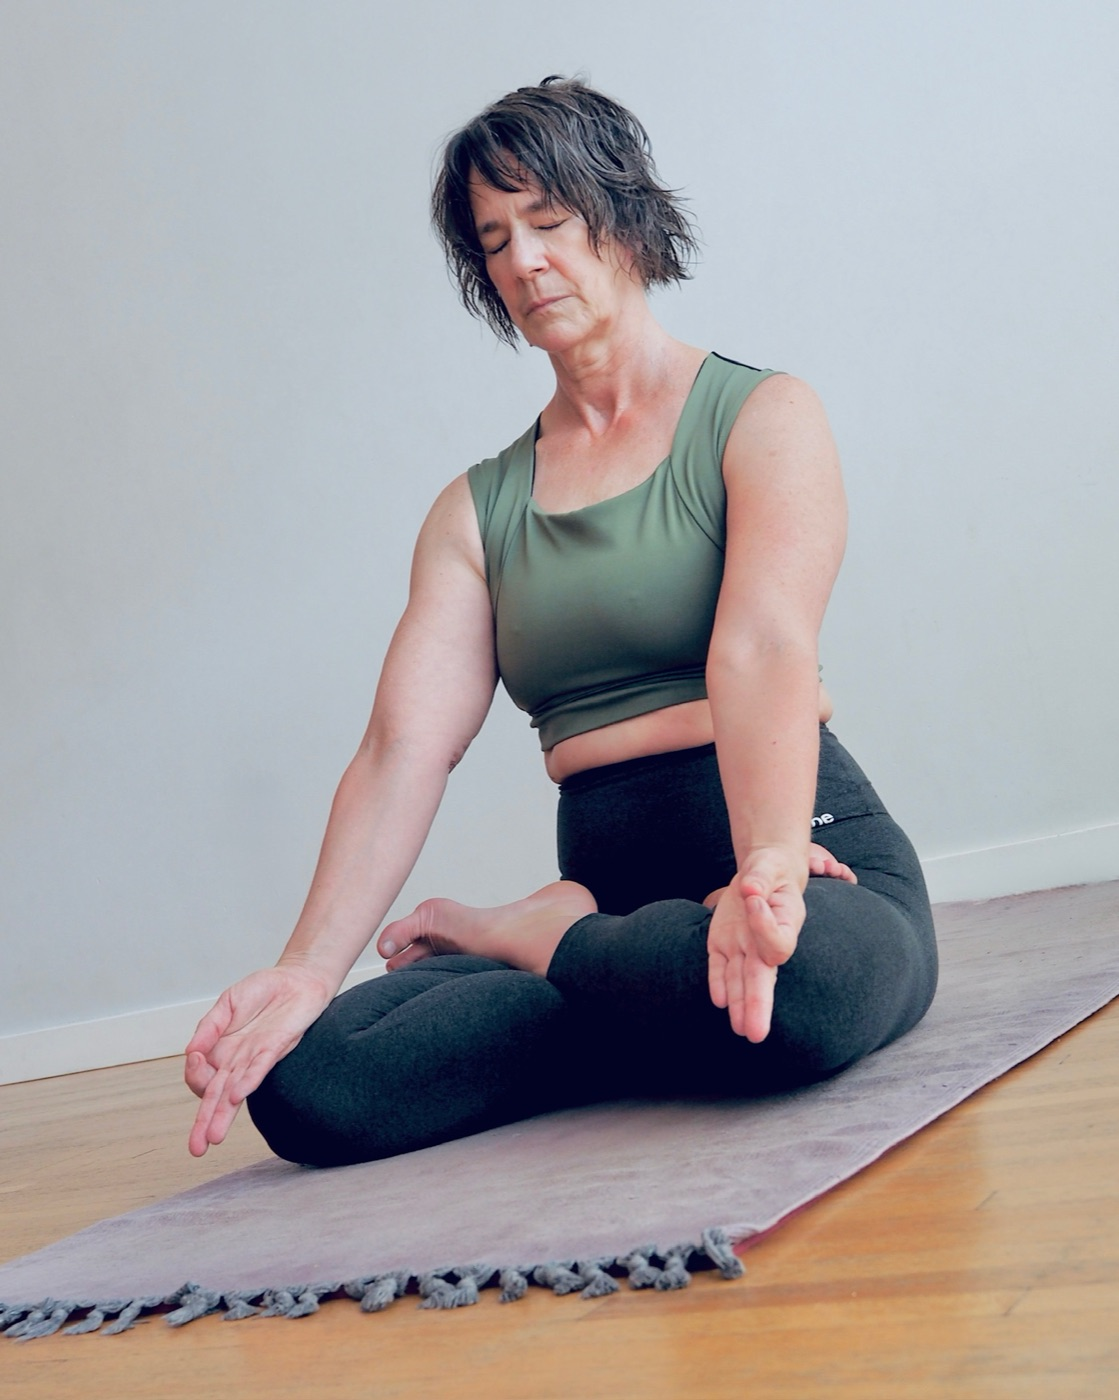
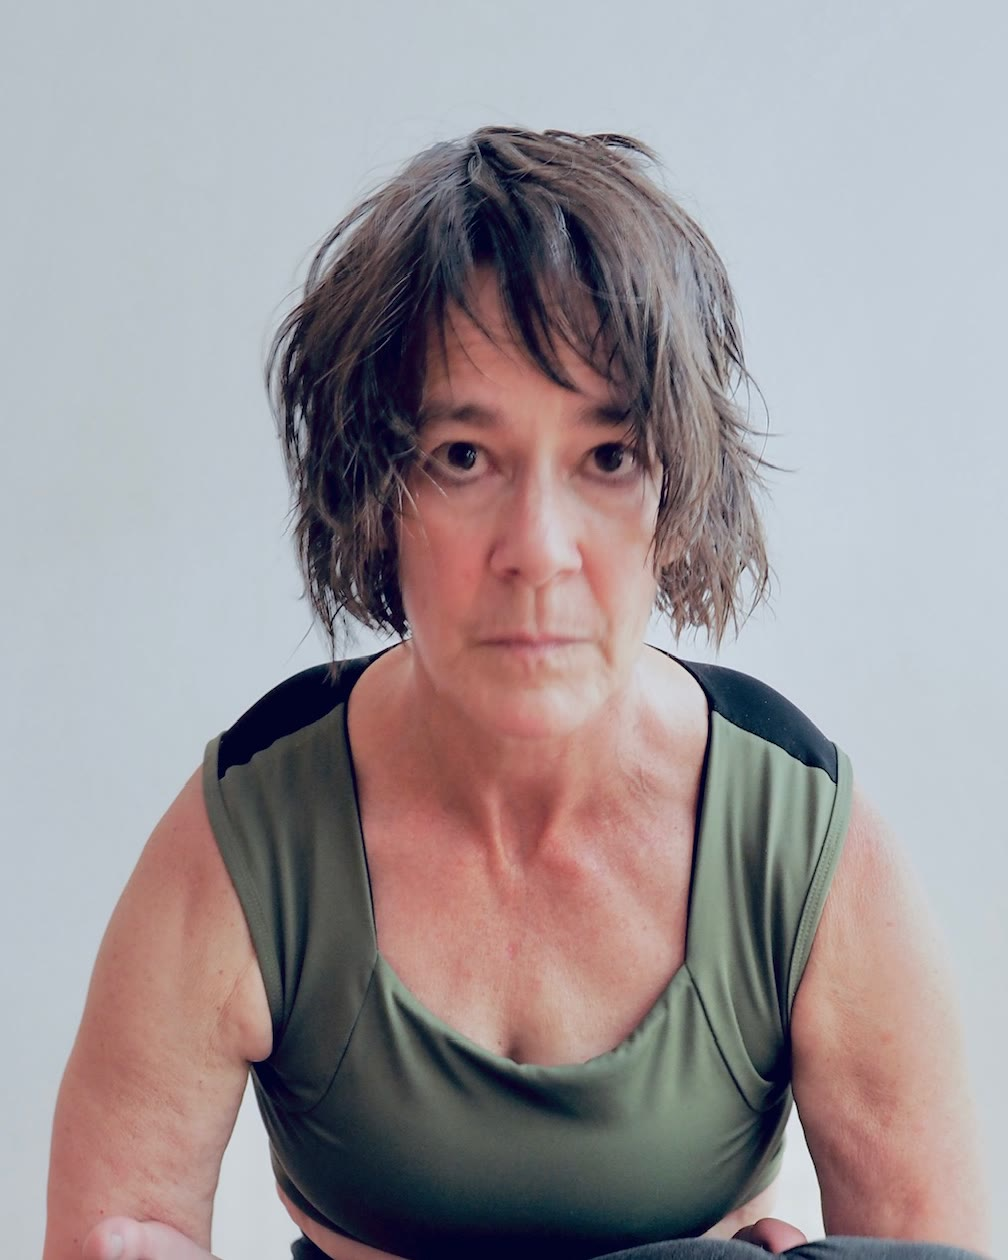
Add new-student rate, feature key qualifications, dynamic moon days
- Rates: add $80 first-month intro block for new students (3-up grid)
- Teacher: feature David Garrigues cert, AJNA IAYT and CYA membership as
  Key qualifications badges; full list stays in the expandable section
- Schedule: mark the current week's moon rest day dynamically in the weekly
  grid (adds nextWeekdayDate helper + tests); revert hardcoded Tue/Wed
- Teacher: update profile photo to a cropped upper-body portrait

diff --git a/src/lib/schedule.test.ts b/src/lib/schedule.test.ts
@@ -5,6 +5,7 @@ import {
   getSaturdayTheme,
   getVancouverDateStr,
   isMoonRestDay,
+  nextWeekdayDate,
   weekdayIndex,
   weekdayName,
   type ScheduleConfig,
@@ -34,6 +35,25 @@ describe('weekday helpers', () => {
   it('returns the weekday name', () => {
     expect(weekdayName('2026-07-03')).toBe('Friday');
     expect(weekdayName('2026-07-11')).toBe('Saturday');
+  });
+});
+
+describe('nextWeekdayDate', () => {
+  it('returns the same date when the weekday matches', () => {
+    // 2026-07-13 is a Monday.
+    expect(nextWeekdayDate('2026-07-13', 1)).toBe('2026-07-13');
+  });
+
+  it('finds the upcoming weekday within the current week', () => {
+    // From Monday 2026-07-13, the coming Tuesday is 2026-07-14.
+    expect(nextWeekdayDate('2026-07-13', 2)).toBe('2026-07-14');
+    // ...and the coming Friday is 2026-07-17.
+    expect(nextWeekdayDate('2026-07-13', 5)).toBe('2026-07-17');
+  });
+
+  it('wraps into next week for weekdays already passed', () => {
+    // From Wednesday 2026-07-15, the next Tuesday is 2026-07-21.
+    expect(nextWeekdayDate('2026-07-15', 2)).toBe('2026-07-21');
   });
 });
 

diff --git a/src/lib/schedule.ts b/src/lib/schedule.ts
@@ -56,6 +56,17 @@ export function weekdayName(dateStr: string): string {
   return WEEKDAY_NAMES[weekdayIndex(dateStr)];
 }
 
+// The date (YYYY-MM-DD) of the next occurrence of `targetWeekday`
+// (0 = Sunday ... 6 = Saturday) on or within the next six days of `fromDateStr`
+// (so the same weekday returns `fromDateStr` itself). Used to work out which
+// calendar date each weekday column represents in the current week.
+export function nextWeekdayDate(fromDateStr: string, targetWeekday: number): string {
+  const offset = (((targetWeekday - weekdayIndex(fromDateStr)) % 7) + 7) % 7;
+  const d = new Date(`${fromDateStr}T00:00:00Z`);
+  d.setUTCDate(d.getUTCDate() + offset);
+  return d.toISOString().slice(0, 10);
+}
+
 // Today's date in Vancouver as YYYY-MM-DD, regardless of the visitor's location.
 export function getVancouverDateStr(now: Date = new Date()): string {
   // en-CA formats dates as YYYY-MM-DD.

diff --git a/src/lib/content.ts b/src/lib/content.ts
@@ -60,7 +60,7 @@ export interface SiteContent {
     bio: string;
     credentials_heading?: string;
     credentials?: string[];
-    membership?: string;
+    highlights?: string[];
     image: string;
     image_alt: string;
   };